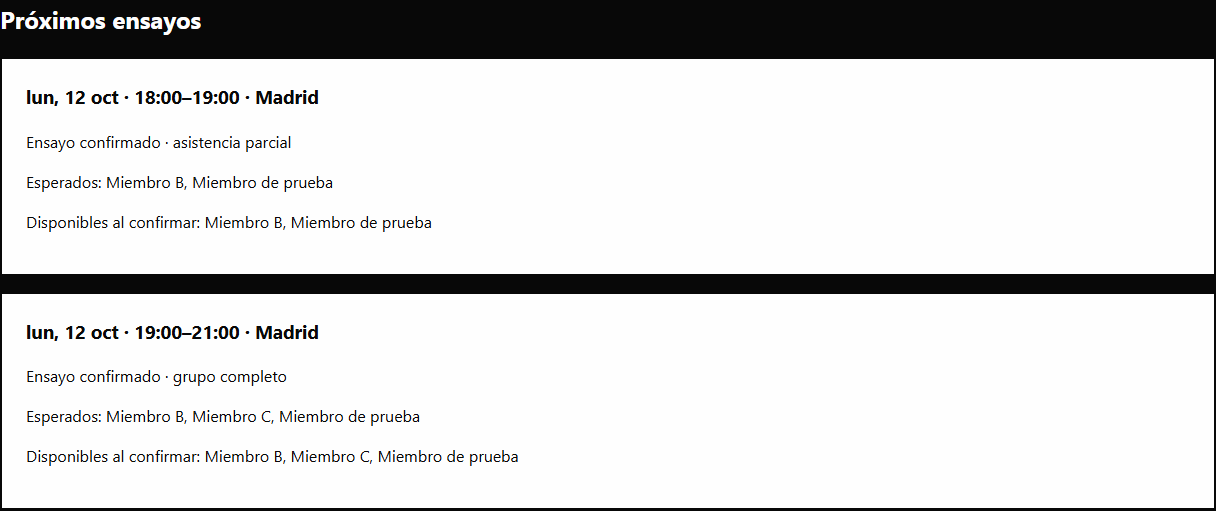
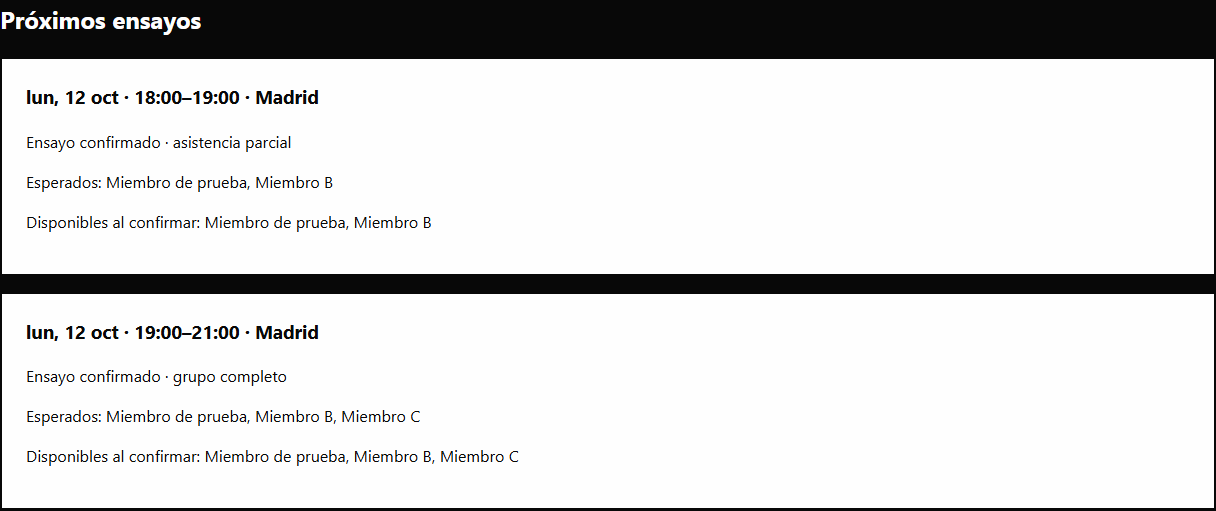
GH-5: Recheck confirmation timing and expire upcoming rehearsals

diff --git a/src/band/rehearsals-view.ts b/src/band/rehearsals-view.ts
@@ -17,6 +17,7 @@ export function confirmationForm(db:Firestore,uid:string,date:string,slot:Window
   form.append(attendanceGroup,agreement,submit,status);
   form.addEventListener('submit',(event)=>{event.preventDefault();void(async()=>{
     try {
+      if(!upcoming([{date,start:slot.start,end:slot.end}]).length)throw Error('La ventana ha terminado.');
       const expected=Array.from(form.querySelectorAll<HTMLInputElement>('[data-expected]:checked')).map(check=>check.value);
       const decision=attendance(required,expected);
       if(!agreed.checked)throw Error('Confirma el acuerdo.');
@@ -29,17 +30,23 @@ export function confirmationForm(db:Firestore,uid:string,date:string,slot:Window
   return form;
 }
 export function mountRehearsals(db:Firestore,host:HTMLElement) {
-  let alive=true;host.append(element('h2','Próximos ensayos'),element('p','Cargando ensayos confirmados…'));
-  const stop=onSnapshot(collection(db,'rehearsals'),{includeMetadataChanges:true},snapshot=>{
-    if(!alive||snapshot.metadata.fromCache||snapshot.metadata.hasPendingWrites)return;
+  let alive=true,loaded=false,stored:Rehearsal[]=[],visibleIds='';host.append(element('h2','Próximos ensayos'),element('p','Cargando ensayos confirmados…'));
+  function render(force=false) {
+    if(!alive||!loaded)return;
+    const rehearsals=upcoming(stored),ids=rehearsals.map(item=>item.id).join(',');
+    if(!force&&ids===visibleIds)return;visibleIds=ids;
     host.replaceChildren(element('h2','Próximos ensayos'));
-    const rehearsals=upcoming(snapshot.docs.map(record=>({...record.data(),id:record.id} as Rehearsal)));
     if(!rehearsals.length)host.append(element('p','Todavía no hay ensayos confirmados próximos.'));
     for(const item of rehearsals) {
       const card=element('article',undefined,'panel');card.dataset.rehearsal=item.id;
       card.append(element('h3',`${dateLabel(item.date)} · ${item.start}–${item.end} · Madrid`),element('p',item.kind==='full'?'Ensayo confirmado · grupo completo':'Ensayo confirmado · asistencia parcial'),element('p',`Esperados: ${item.expected.map(id=>item.names[id]??'Miembro').join(', ')}`),element('p',`Disponibles al confirmar: ${item.available.map(id=>item.names[id]??'Miembro').join(', ')}`));
       host.append(card);
     }
-  },()=>{if(alive)host.replaceChildren(element('h2','Próximos ensayos'),element('p','No se han podido cargar los ensayos. Vuelve a entrar para reintentar.'));});
-  return ()=>{alive=false;stop();host.replaceChildren();};
+  }
+  const stop=onSnapshot(collection(db,'rehearsals'),{includeMetadataChanges:true},snapshot=>{
+    if(!alive||snapshot.metadata.fromCache||snapshot.metadata.hasPendingWrites)return;
+    stored=snapshot.docs.map(record=>({...record.data(),id:record.id} as Rehearsal));loaded=true;render(true);
+  },()=>{loaded=false;if(alive)host.replaceChildren(element('h2','Próximos ensayos'),element('p','No se han podido cargar los ensayos. Vuelve a entrar para reintentar.'));});
+  const timer=window.setInterval(()=>render(),60_000);
+  return ()=>{alive=false;clearInterval(timer);stop();host.replaceChildren();};
 }

diff --git a/docs/delivery/plans/GH-5.md b/docs/delivery/plans/GH-5.md
@@ -15,7 +15,7 @@ Firestore rehearsals use civil date/start/end (Madrid), attendance snapshot and 
 - [x] TDD attendance validation/classification and upcoming selection with Madrid time.
 - [x] Explicit candidate confirmation with agreed timing/participants and fail-honest saves; live shared upcoming view, admitted-workspace disposal.
 - [x] Demo-only mobile/desktop browser full/partial confirmation, reload, shared visibility and data-layer denial; capture screenshots.
-- [x] Reconcile documentation/citations; frozen install, security and full CI-derived verification; independent audits.
+- [x] Reconcile documentation/citations; frozen install, security and full CI-derived verification.
 - [ ] Archive after fold, final pushed-head checks/audit, ready screenshot PR, authorized merge and native production observation.
 
 ## Test plan and Done
@@ -29,3 +29,5 @@ Planned before implementation; no new product-policy decision required.
 <!-- pdac:cite id="BR-REHEARSAL-CONFIRMATION" digest="sha256:2522bd383ef243a1aced24f77f917fced2c7c03178d6f077717a56b4be9c5ef0" -->
 
 Implementation complete; attendance example ran red before code and green afterwards. Upcoming selection adds a literal Madrid/DST regression. Full frozen install/security/verify passes 66 tests; citations and documentation lint pass. Real mobile/desktop demo browser confirms both types, rejected-write failure, same-ID retry, reload and second-member visibility; GH-3 browser regression also passes. No rules behaviour changed, only denial assertions extended. Independent audit/closure remain pending. See ../evidence/GH-5/README.md.
+
+Independent audit found an open-form/elapsed-clock gap. Submission now checks current eligibility and a disposable minute timer updates upcoming membership without replacing unchanged presentation. Controlled browser-clock regressions prove expiration, no stale confirmation/third record, and restoration. Audit-task wording was corrected: implementation verification is complete; independent final gates remain explicitly pending. This correction is a durable regression guard, not a lifecycle bypass.

diff --git a/docs/architecture/08-crosscutting-concepts.md b/docs/architecture/08-crosscutting-concepts.md
@@ -8,7 +8,7 @@ description: Shared architectural mechanisms applied across multiple building bl
 
 ## Confirmation persistence
 
-The admitted workspace composes a live rehearsal collection view alongside availability. Explicit client writes snapshot civil date/clock values, required/available/expected UIDs and display names, and the confirming UID. Separate attendance validation and Madrid-time upcoming selection are pure transformations in [rehearsals.ts](../../src/band/rehearsals.ts); [rehearsals-view.ts](../../src/band/rehearsals-view.ts) owns Firestore interaction and DOM lifecycle. The random document identity is retained across a failed attempt/retry; pending controls stay disabled, and only server-confirmed collection snapshots populate shared saved rehearsals. Existing membership rules protect both read and write. No calculation persists a rehearsal, no external calendar integration is introduced, and loss of admission disposes both views/listeners.
+The admitted workspace composes a live rehearsal collection view alongside availability. Explicit client writes snapshot civil date/clock values, required/available/expected UIDs and display names, and the confirming UID. Separate attendance validation and Madrid-time upcoming selection are pure transformations in [rehearsals.ts](../../src/band/rehearsals.ts); [rehearsals-view.ts](../../src/band/rehearsals-view.ts) owns Firestore interaction and DOM lifecycle. The random document identity is retained across a failed attempt/retry; pending controls stay disabled, and only server-confirmed collection snapshots populate shared saved rehearsals. Submission rechecks the clock, and a disposable minute timer removes finished rehearsals even without data changes; unchanged visible IDs avoid unnecessary timer rerenders. Existing membership rules protect both read and write. No calculation persists a rehearsal, no external calendar integration is introduced, and loss of admission disposes both views/listeners/timers.
 
 ## Availability persistence and time representation
 

diff --git a/docs/delivery/evidence/GH-5/README.md b/docs/delivery/evidence/GH-5/README.md
@@ -5,3 +5,5 @@
 Frozen install, security and full verification: 66 tests pass (9 design, 18 security, 30 web/domain, 9 rules). Demo-only `verify-confirmation-runtime.mjs` uses real Auth/Firestore emulators and browser controls. Temporarily denying rehearsal writes in the local demo proves failed confirmation does not create a saved card; restoring rules and retrying yields a single record. Full/partial confirmations survive reload and a separately authenticated active member sees intended attendance. Original rules are restored in finally. Existing availability browser regressions also pass.
 
 Only synthetic isolated demo members/rehearsals appear in screenshots. No production data or fixtures. Source hashes bind verification to application files across documentation/archive-only commits. Current-head remote results and merge/production outcomes are linked from the issue/PR after occurrence. Anonymous deployment checks do not claim observed live Google access. Existing SDK bundle warning and single browser-engine coverage remain limitations.
+
+An independent audit identified a stale-clock gap. The controlled browser clock now proves an already open window cannot be confirmed after its end, and the upcoming list expires without a Firestore snapshot. Restoring the clock proves no third rehearsal was created. The minute timer is disposed with the workspace. Full verification was rerun after this correction; no test was skipped or weakened.
